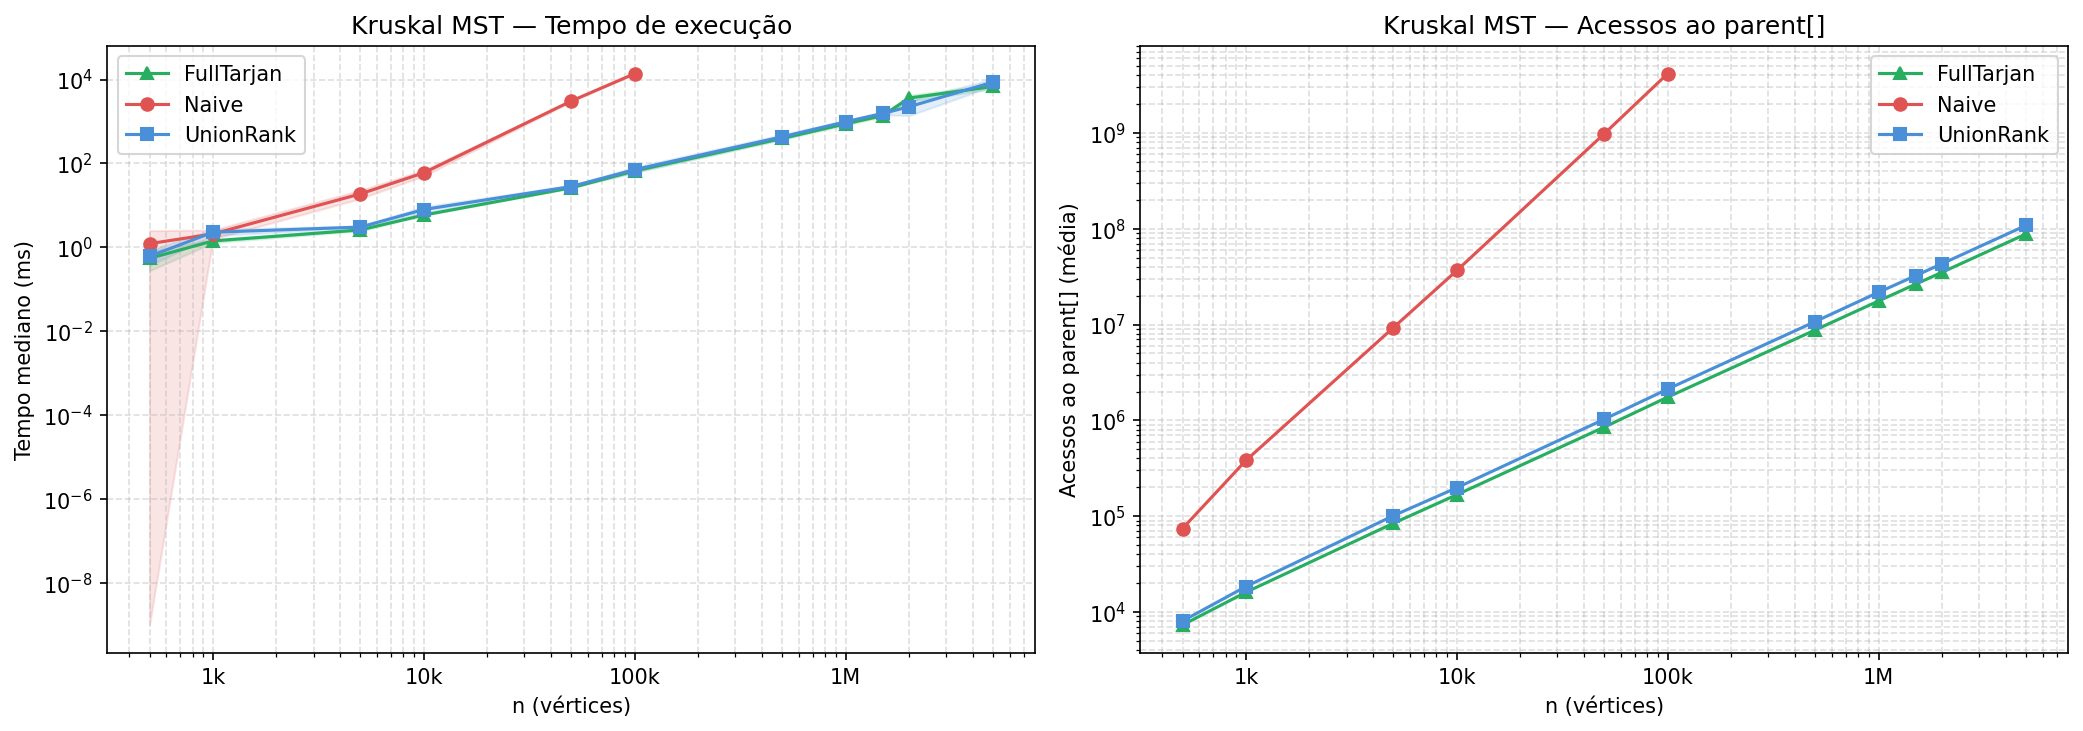
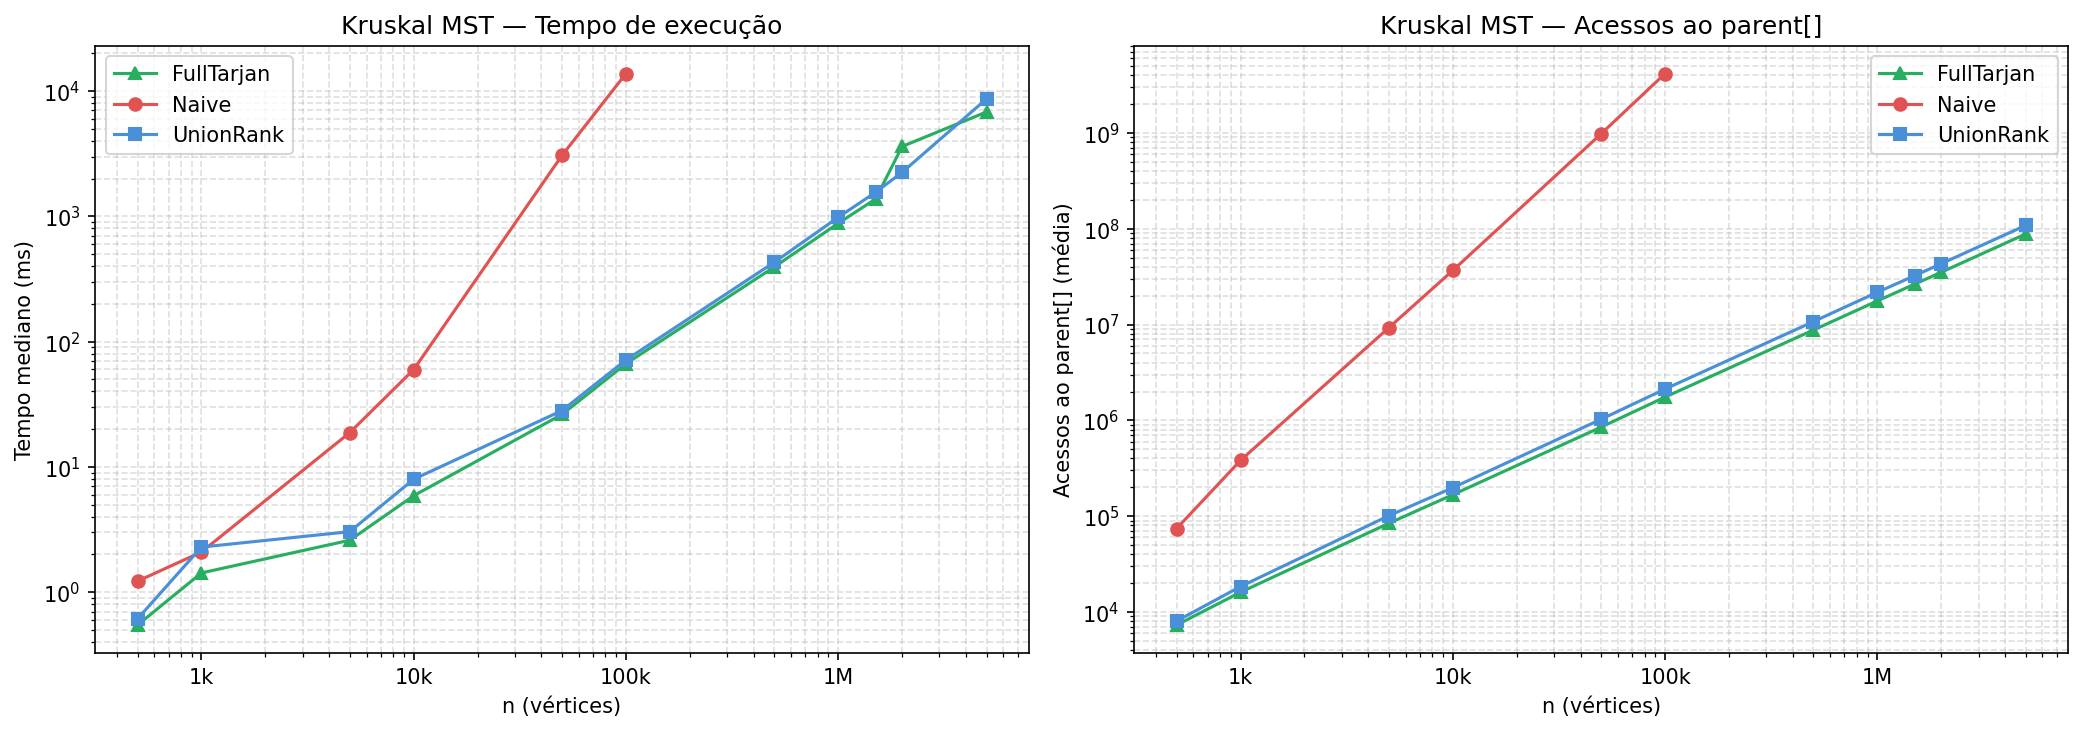
tirando a banda de desvio padrão e retirando números negativos do gráfico

Changed region(s): [[0.0, 0.0, 0.9986, 0.9932]]

diff --git a/dsu/src/main/java/tp1/fpaa/graficos/plot_all.py b/dsu/src/main/java/tp1/fpaa/graficos/plot_all.py
@@ -43,10 +43,6 @@ def plot_kruskal():
         g = g.sort_values("n")
         c, m = COLORS[v], MARKERS[v]
         ax1.plot(g["n"], g["median_time_ms"], label=v, color=c, marker=m)
-        eps = 1e-9
-        lower = (g["median_time_ms"] - g["std_time_ms"]).clip(lower=eps)
-        upper = (g["median_time_ms"] + g["std_time_ms"]).clip(lower=eps)
-        ax1.fill_between(g["n"], lower, upper, alpha=0.15, color=c)
         ax2.plot(g["n"], g["avg_accesses"], label=v, color=c, marker=m)
 
     ax1.set_xscale("log")
